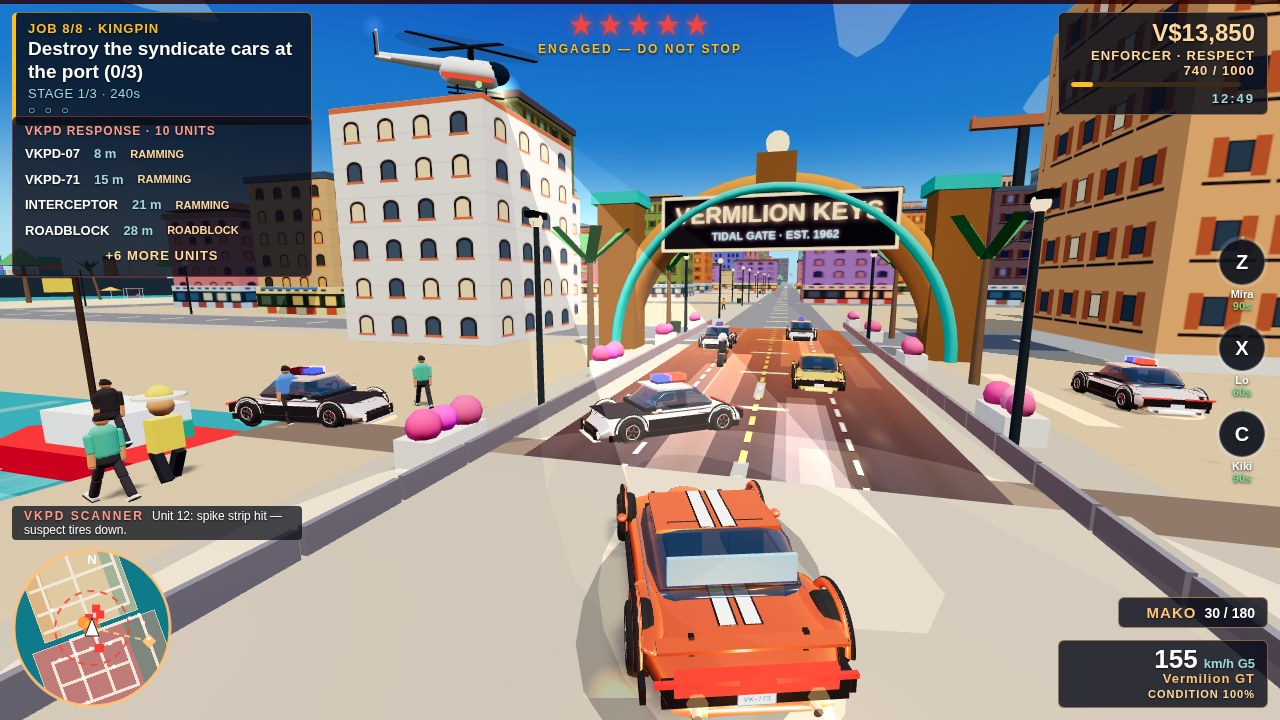
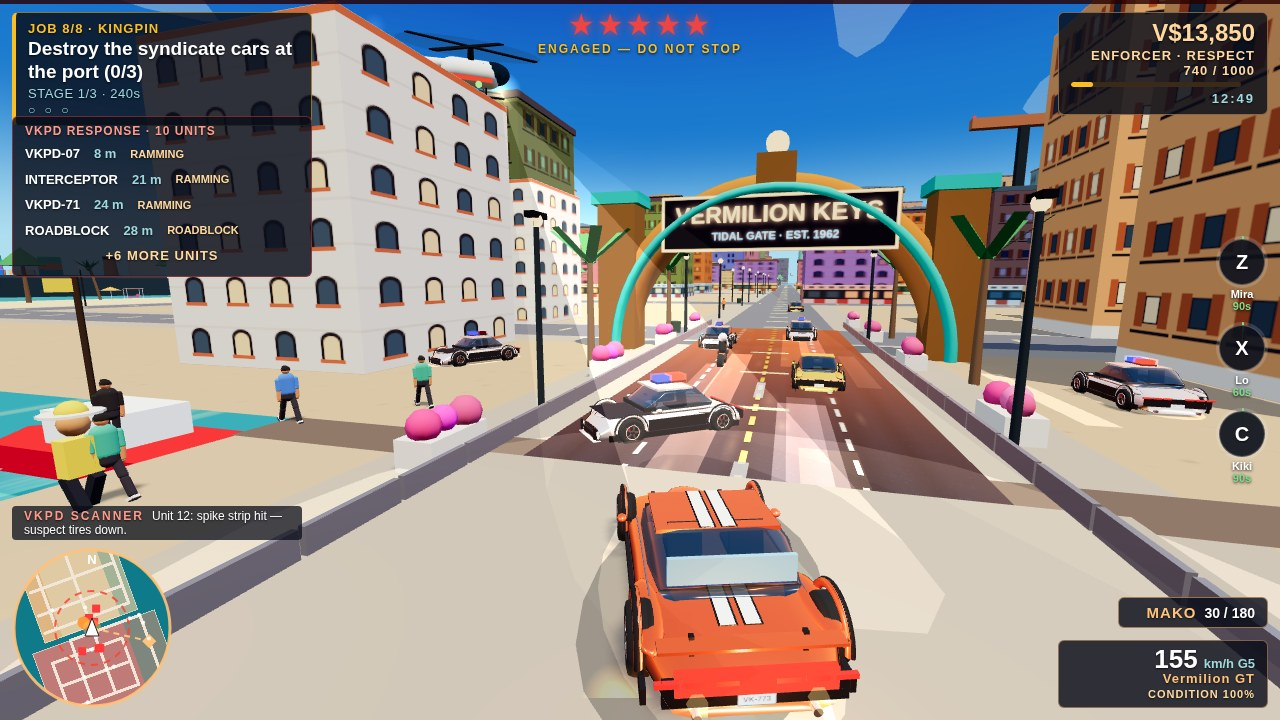
On-foot: contact-response moment with visible next objective; map: shorelines, roads, destinations; buildings off the market-to-port route

diff --git a/game/src/shots.js b/game/src/shots.js
@@ -70,7 +70,8 @@ import { coverPose, combatPose, garagePose } from './look/cinematicCamera.js';
 // MAP SHOT (C1 fix, 2026-11-23) — the baked minimap tile + district
 // data, reused full-screen; no new map renderer is invented.
 import { bakeMinimap } from './ui/minimapBaked.js';
-import { districtRects, MAP_MARKERS } from './world/cityLayout.js';
+import { districtRects, islandRects, MAP_MARKERS } from './world/cityLayout.js';
+import { GRAPH } from './world/roadNetwork.js';
 import { buildViewModel } from './ui/viewModel.js';
 import { MAP_BOUNDS } from './ui/hudStyles.js';
 
@@ -186,19 +187,48 @@ function drawFullMap(canvas, game) {
     worldW * b.scale, worldH * b.scale,
     X(minX), Z(minZ), worldW * scale, worldH * scale,
   );
-  // District outlines + labels.
-  ctx.textAlign = 'center';
-  ctx.textBaseline = 'middle';
+  // Shorelines (round 3): the baked tile strokes each island rect once
+  // and the coast still reads as a flat rectangle edge. A second, bold
+  // bright stroke on top of the tile makes the three coasts read as
+  // shorelines, and a bright outline round each causeway makes the two
+  // island links read as bridges. The islands ARE rectangles in the
+  // world data (MAP_ISLANDS) — no curved coast is invented here; the
+  // stroke only makes the real coast legible.
+  for (const isl of islandRects()) {
+    ctx.strokeStyle = 'rgba(255, 246, 220, 0.95)';
+    ctx.lineWidth = 5;
+    ctx.strokeRect(X(isl[0]), Z(isl[1]), (isl[2] - isl[0]) * scale, (isl[3] - isl[1]) * scale);
+  }
+  for (const c of [[-90, -14, -70, 14], [230, -14, 250, 14]]) {
+    ctx.strokeStyle = 'rgba(255, 255, 255, 0.75)';
+    ctx.lineWidth = 3;
+    ctx.strokeRect(X(c[0]), Z(c[1]), (c[2] - c[0]) * scale, (c[3] - c[1]) * scale);
+  }
+  // Roads (round 3): the baked tile draws the real road graph in cream
+  // on sand — low contrast, so the street grid never reads and the
+  // islands look like empty blocks. Redraw the SAME graph edges on top
+  // with a dark under-stroke and a cream centre, so the downtown grid,
+  // the boardwalk avenues and the port grid read as a city. Real data
+  // (GRAPH.edges), no invented streets.
+  const road = (width, style) => {
+    ctx.strokeStyle = style;
+    ctx.lineWidth = width;
+    ctx.lineCap = 'round';
+    ctx.lineJoin = 'round';
+    ctx.beginPath();
+    for (const e of GRAPH.edges) {
+      ctx.moveTo(X(e.ax), Z(e.az));
+      ctx.lineTo(X(e.bx), Z(e.bz));
+    }
+    ctx.stroke();
+  };
+  road(16, 'rgba(74, 64, 52, 0.8)');
+  road(9, '#f5ead6');
+  // District outlines (labels come last, on top of the route — see below).
   for (const d of districtRects()) {
     ctx.strokeStyle = 'rgba(255, 255, 255, 0.28)';
     ctx.lineWidth = 1;
     ctx.strokeRect(X(d[2]), Z(d[3]), (d[4] - d[2]) * scale, (d[5] - d[3]) * scale);
-    ctx.font = 'bold 17px Arial';
-    ctx.lineWidth = 4;
-    ctx.strokeStyle = 'rgba(10, 25, 35, 0.85)';
-    ctx.strokeText(d[1], X(d[7]), Z(d[8]));
-    ctx.fillStyle = 'rgba(255, 233, 201, 0.95)';
-    ctx.fillText(d[1], X(d[7]), Z(d[8]));
   }
   // Gold route: dark under-stroke for contrast, then the gold line,
   // then small chevrons along each leg pointing the way.
@@ -235,7 +265,9 @@ function drawFullMap(canvas, game) {
     ctx.restore();
   }
   // Markers: safehouse + garage from the career map data, the market
-  // start and the port destination.
+  // start and the port destination, plus the Tidal Gate (round 3) — the
+  // drawbridge landmark at the east causeway, on the route, where the
+  // cover's chase crosses. Real place, (240, 0).
   const dot = (x, z, r, color, label, dy) => {
     ctx.fillStyle = color;
     ctx.beginPath();
@@ -256,6 +288,28 @@ function drawFullMap(canvas, game) {
   for (const m of MAP_MARKERS) dot(m.x, m.z, 6, m.color, m.label, m.dy * 2.3);
   dot(MAP_MARKET[0], MAP_MARKET[1], 10, '#ffc27a', 'MARKET', 26);
   dot(MAP_PORT[0], MAP_PORT[1], 10, '#ff5a3c', 'PORT', 26);
+  dot(240, 0, 8, '#ffffff', 'TIDAL GATE', -26);
+  // District labels LAST (round 3): they used to be drawn before the
+  // gold route, so the route covered them — "Caldera Docks" hid behind
+  // the route leg and the PORT dot, "Ochre Causeway" sat under the
+  // route corner. Drawn on top with the dark halo they read. One
+  // position fix: Caldera Docks moves south off the route (was
+  // (370,-155), on the z=-160 route leg and the PORT dot) to (370,-125),
+  // inside its district and clear of both.
+  const LABEL_FIX = { caldera: [370, -125] };
+  ctx.textAlign = 'center';
+  ctx.textBaseline = 'middle';
+  for (const d of districtRects()) {
+    const fix = LABEL_FIX[d[0]];
+    const lx = fix ? fix[0] : d[7];
+    const lz = fix ? fix[1] : d[8];
+    ctx.font = 'bold 17px Arial';
+    ctx.lineWidth = 4;
+    ctx.strokeStyle = 'rgba(10, 25, 35, 0.85)';
+    ctx.strokeText(d[1], X(lx), Z(lz));
+    ctx.fillStyle = 'rgba(255, 233, 201, 0.95)';
+    ctx.fillText(d[1], X(lx), Z(lz));
+  }
   // Player arrow at the market, pointing east along the route.
   ctx.save();
   ctx.translate(X(MAP_MARKET[0]), Z(MAP_MARKET[1]));
@@ -984,14 +1038,25 @@ export function stageShot(kind, game) {
     // staging: radius 6, and the hero's closest approach to (115,125)
     // is ~17 m in the car; after the player steps out no sim ticks
     // run, so update() can neither fail nor advance it.
+    // The contact has RESPONDED — the meeting (stage 0) is done, and
+    // the next objective (stage 1) is the live stage: take the car
+    // onto the quay, the intercept at Tidal Gate. Stage 1 is active
+    // (stage: 1), so the minimap gold route and the mission beacon
+    // point at the gate, not back at the market stall. Stage 1 is a
+    // plain 'goto' with no setupStage side effects (no targets, no
+    // guards), so setting stage: 1 directly is safe. The beacon is
+    // positioned and shown below, in frame ahead of the player.
     g.missions.active = {
       def: {
         id: 8, name: 'KINGPIN', giver: 'Marco', giverRole: 'SYNDICATE',
         briefing: 'Last job. Meet the contact at the market stall — on foot, no noise.',
         reward: 5000, respect: 220, par: 420,
-        stages: [{ type: 'goto', text: 'Meet the contact at the market stall', x: 115, z: 125, radius: 6 }],
+        stages: [
+          { type: 'goto', text: 'Meet the contact at the market stall', x: 115, z: 125, radius: 6 },
+          { type: 'goto', text: 'Take the car onto the quay — the intercept is at Tidal Gate', x: 240, z: 0, radius: 8 },
+        ],
       },
-      stage: 0, timer: 0, totalTimer: 0, gate: 0, kills: 0,
+      stage: 1, timer: 0, totalTimer: 0, gate: 0, kills: 0,
       chaseCar: null, targets: [], guards: [], data: {},
     };
     // Civilian traffic + promenade crowd via the pursuit density
@@ -1135,13 +1200,32 @@ export function stageShot(kind, game) {
     interceptor.speed = 25;
     interceptor.syncMesh();
     g.police.units.push(interceptor);
-    // The beacon is a 26 m gold column over the market — at the frame's
-    // edge it would read as a UI sliver, not a destination. Hide it
-    // (and the ground marker) for this shot, as the pursuit branch
-    // does; the minimap keeps the gold route and the gold target
-    // diamond, so the objective still reads.
-    g.missions.beacon.visible = false;
-    g.missions.marker.visible = false;
+    // NEXT OBJECTIVE VISIBLE (round 3): the beacon is a 26 m gold
+    // column over the LIVE stage target — now the Tidal Gate (240, 0),
+    // ahead of the player in the frame, not the market stall behind
+    // them. The old code hid it because the market target sat at the
+    // frame's edge and read as a UI sliver; the gate target is on the
+    // frame's view axis (~8 deg off the player's heading, ~130 m
+    // away), so the column reads as the next destination. No sim ticks
+    // run after this, so the beacon/marker are positioned by hand here
+    // (the mission update() that normally follows stageTarget never
+    // runs). The minimap keeps the gold route to the same target.
+    const nextTarget = g.missions.stageTarget;
+    if (nextTarget) {
+      g.missions.beacon.position.set(nextTarget.x, 13, nextTarget.z);
+      g.missions.beacon.visible = true;
+      // The beacon's staging opacity (0.18–0.38, animated in update())
+      // washes out in daylight at 130 m — a faint pale sliver, not a
+      // destination. Pin it bright and wide for this shot only (the
+      // mission system itself is untouched): a solid gold column that
+      // reads across the boardwalk. No sim ticks run after this, so
+      // update() cannot reset it.
+      g.missions.beacon.material.opacity = 0.65;
+      g.missions.beacon.scale.set(1.5, 1, 1.5);
+      g.missions.marker.position.set(nextTarget.x, 0.1, nextTarget.z);
+      g.missions.marker.visible = true;
+      console.log('[onfoot-next] beacon at ' + nextTarget.x.toFixed(1) + ',' + nextTarget.z.toFixed(1));
+    }
     // Camera (computed BEFORE the de-conflict, so the keep-out uses the
     // real lens position): combatPose, the established on-foot
     // third-person chase from the live player pose — ~2.5 m behind,

diff --git a/game/src/world/city.js b/game/src/world/city.js
@@ -424,17 +424,23 @@ export function buildCity(scene, rng, game) {
   // (within 75 m of (250, 0)) empty, and the probe showed every
   // instanced building in the cover frame is 100+ m away — too far
   // for any facade to read at 620 px. These four sit 37–52 m from the
-  // cover camera, on the island (x -70..230), off the road (z ±24–28),
-  // and use limestoneFacade()/terracottaFacade() directly with a white
+  // cover camera, on the island (x -70..230), and use
+  // limestoneFacade()/terracottaFacade() directly with a white
   // material colour — NO PALETTE.building instance tint, which is what
   // washes the instanced facades out into flat coloured blocks.
   // Fixed positions, no rng() calls, colliders included.
+  // ROUND 3 (Codex): the two at x=205 sat ON the north-south road at
+  // x=200 — their colliders (x 197.5–212.5) covered the centerline
+  // (x=200) and the traffic lane (x=202.2), blocking the
+  // market-to-port route. They move to x=216 (colliders 208.5–223.5),
+  // clear of the road edge at x=205. The two at x=190 stay: their
+  // eastern edge is 196.5, west of the centerline.
   {
     const limeMat = new THREE.MeshLambertMaterial({ map: limestoneFacade() });
     const terraMat = new THREE.MeshLambertMaterial({ map: terracottaFacade() });
     const near = [
-      { x: 205, z: 24, w: 14, d: 12, h: 16, mat: limeMat },
-      { x: 205, z: -24, w: 14, d: 12, h: 22, mat: terraMat },
+      { x: 216, z: 24, w: 14, d: 12, h: 16, mat: limeMat },
+      { x: 216, z: -24, w: 14, d: 12, h: 22, mat: terraMat },
       { x: 190, z: 28, w: 12, d: 10, h: 14, mat: limeMat },
       { x: 190, z: -28, w: 12, d: 10, h: 26, mat: terraMat },
     ];
